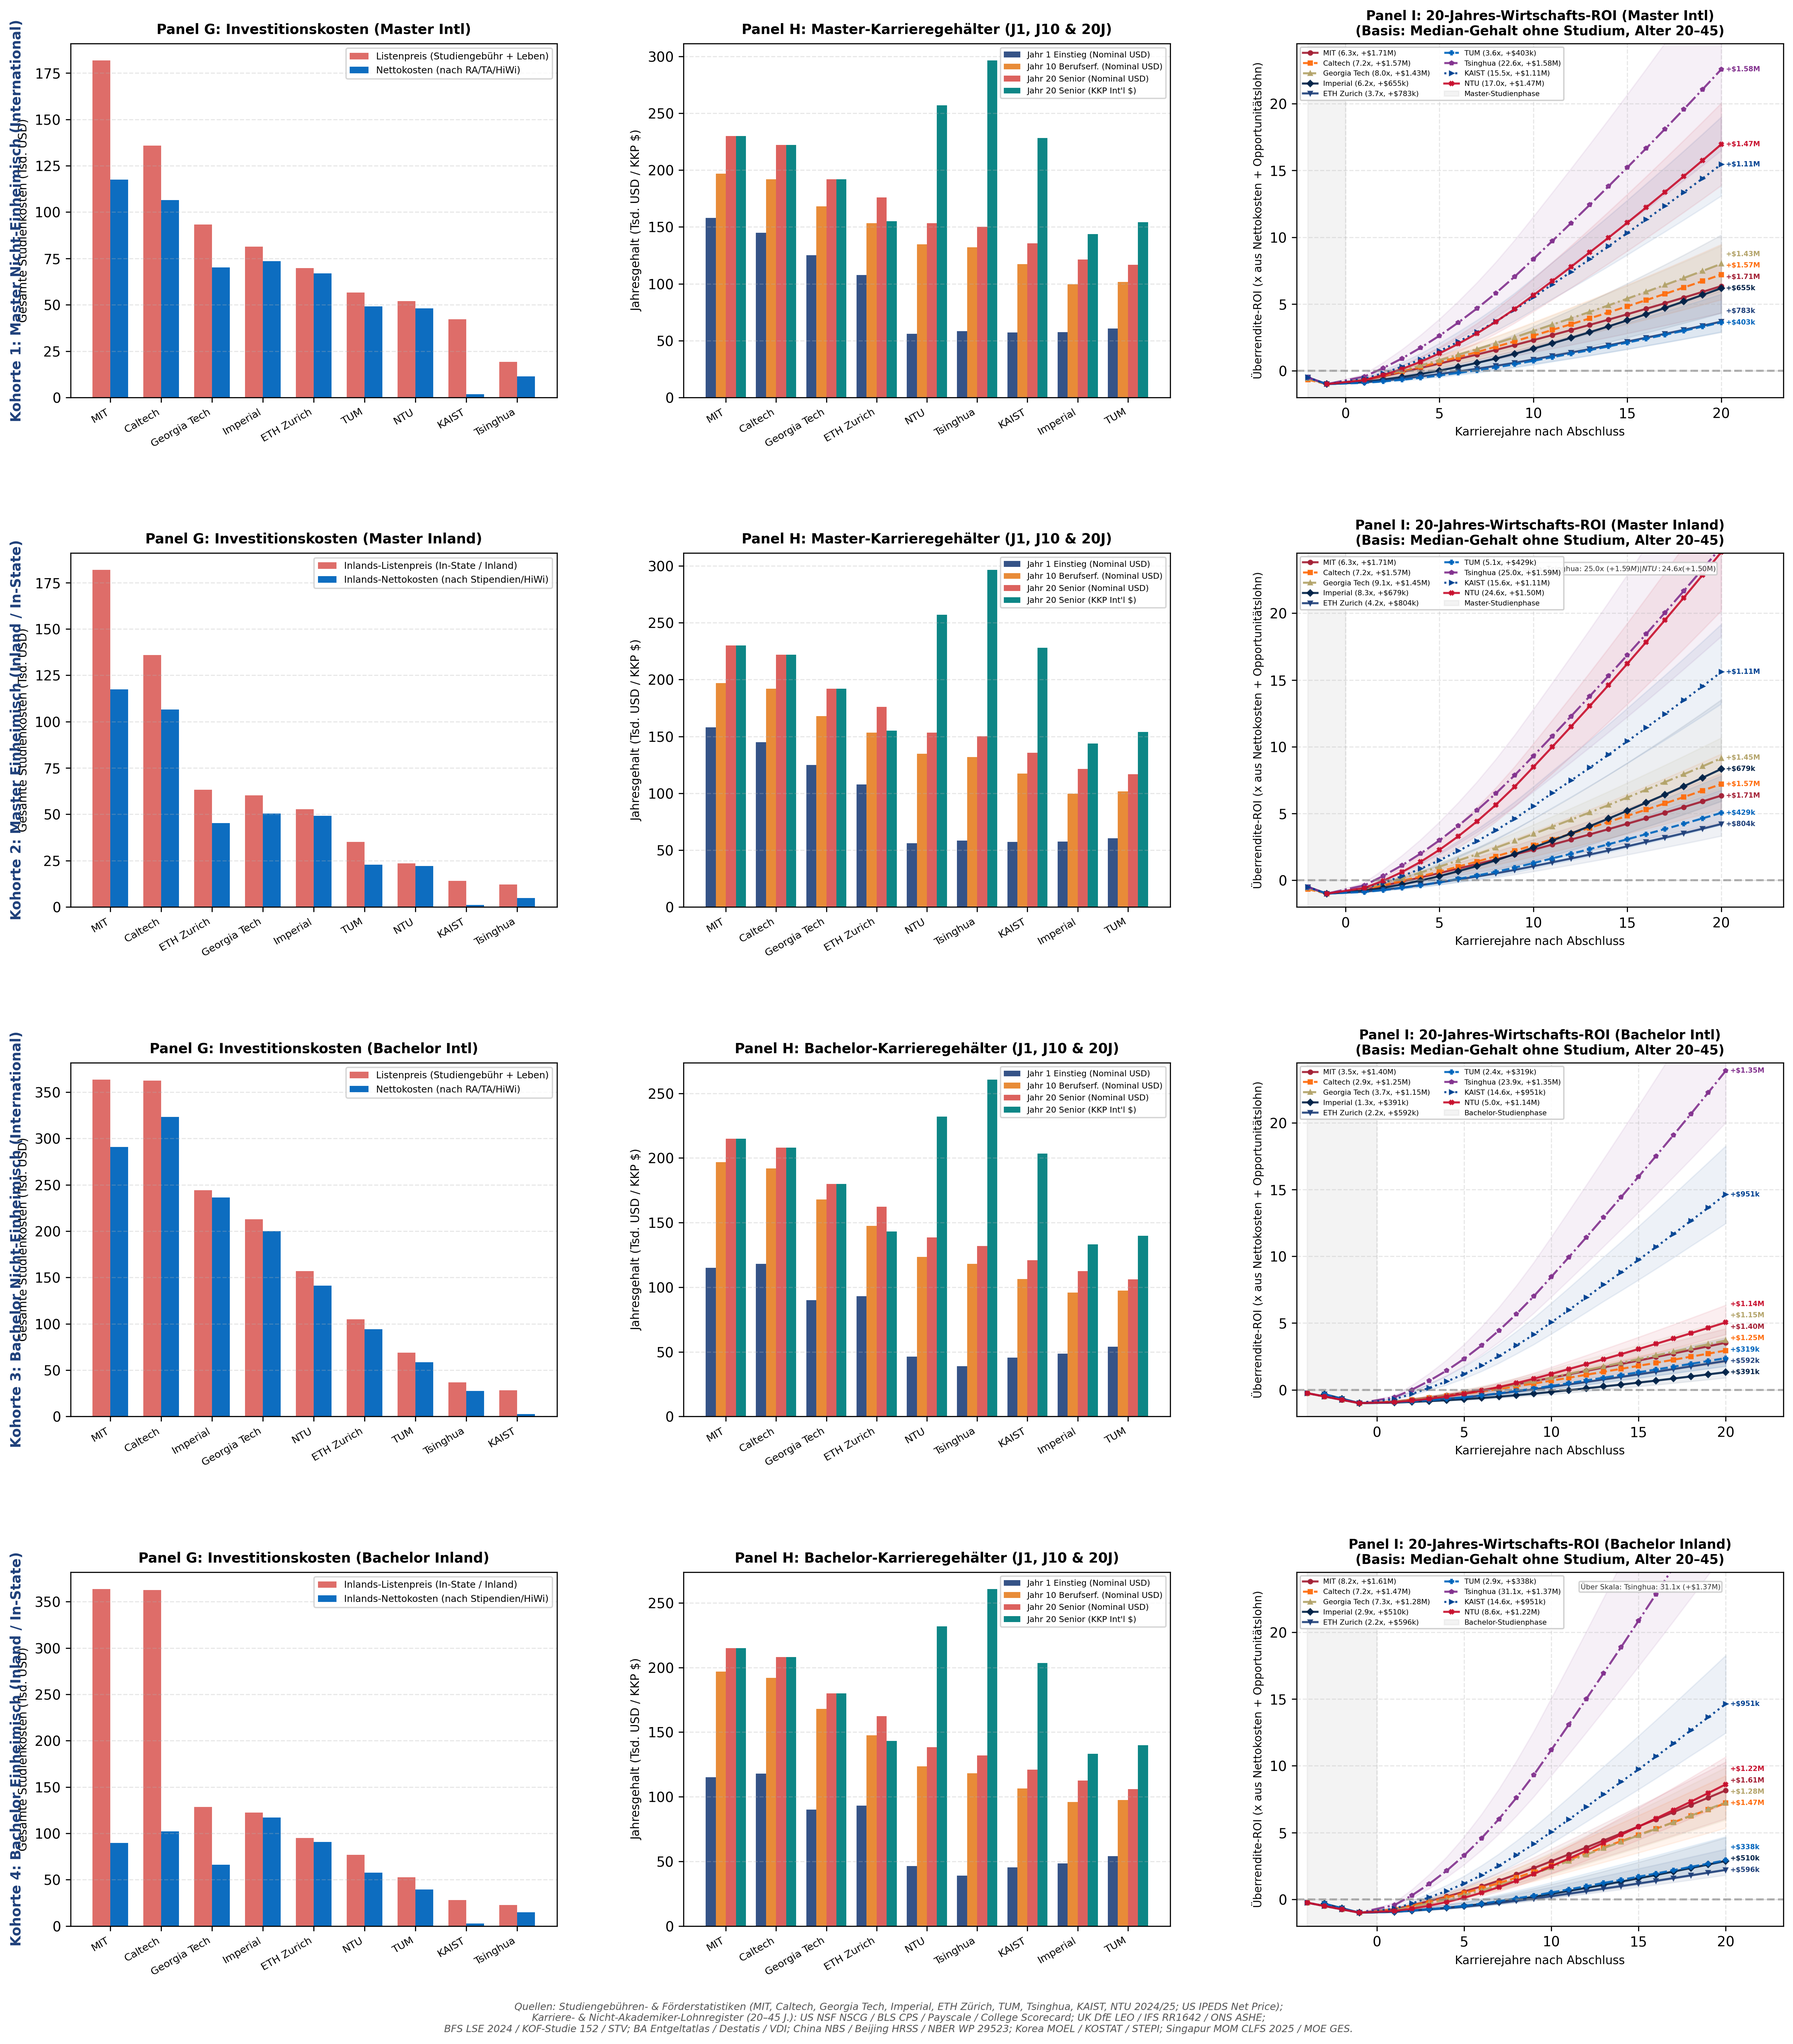
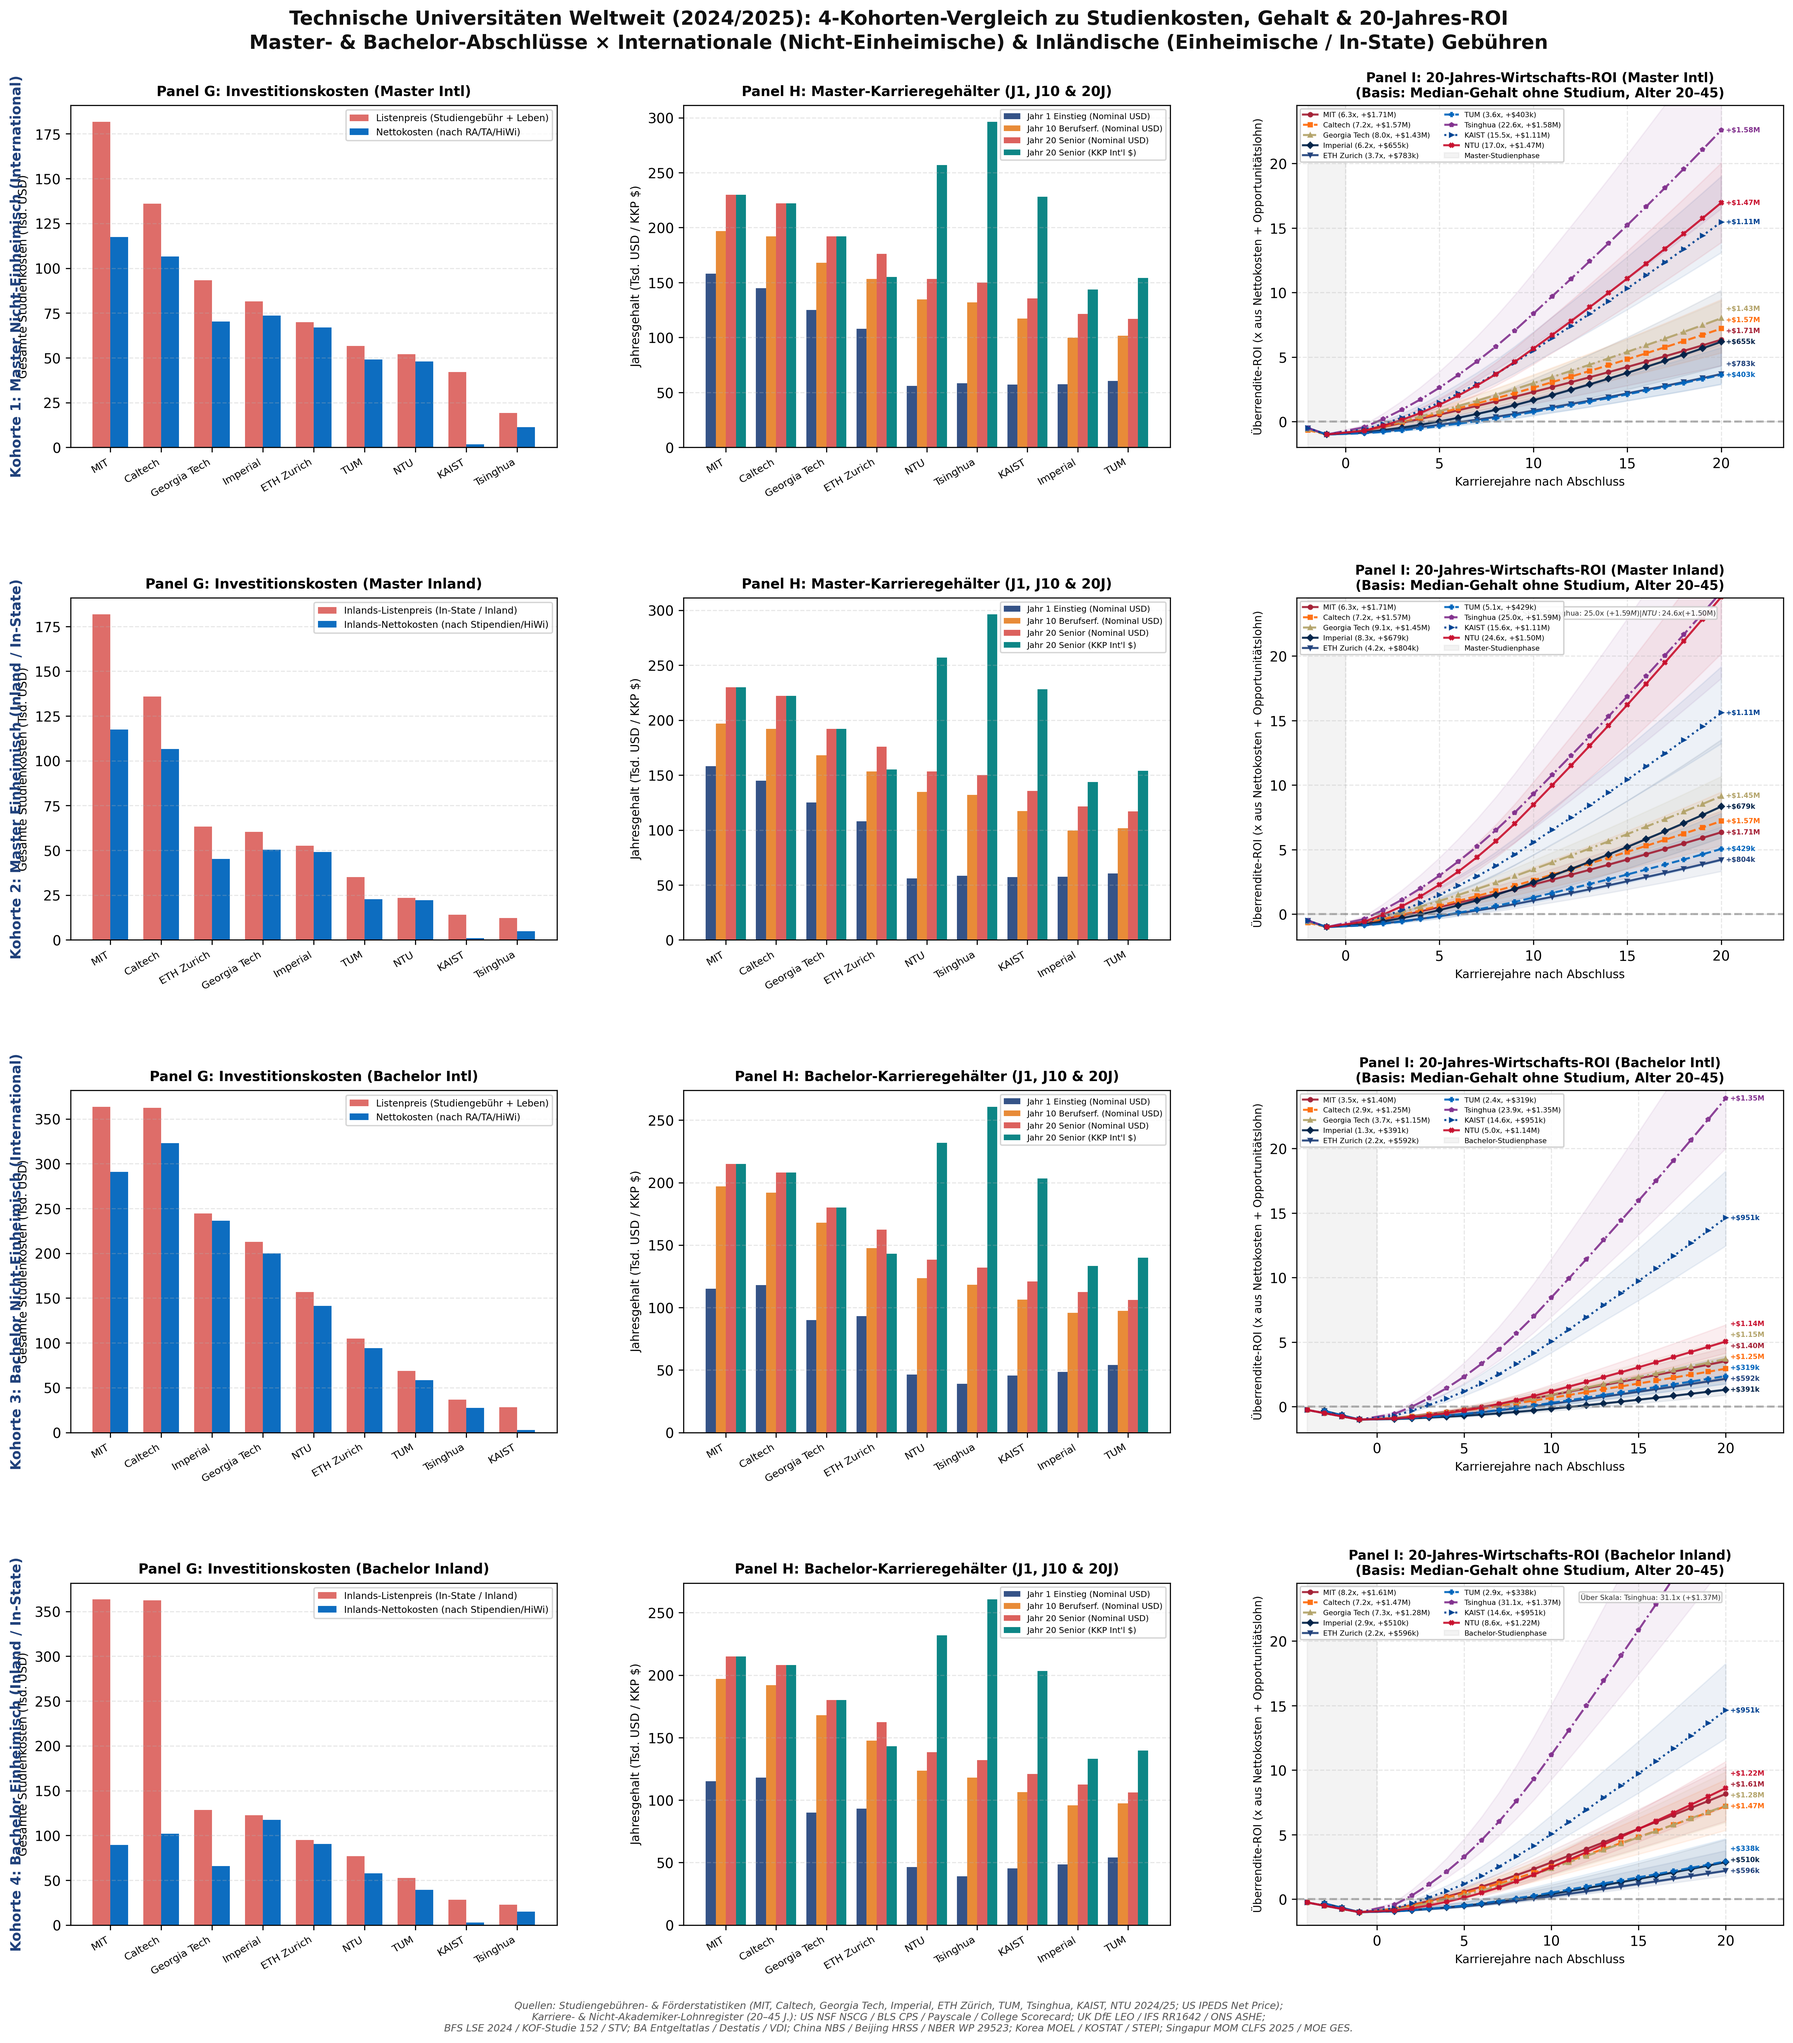
Added title to whole plot

diff --git a/src/modeling.py b/src/modeling.py
@@ -842,7 +842,16 @@ def render_historical_trajectories(ax, data, lang="en", is_standalone=False):
 def generate_bottom_row_4_variants_comparison(data, lang="en"):
     """Generate 4-row comparative composite of Panels G, H, I across Master & Bachelor x Native & Non-Native."""
     fig, axes = plt.subplots(4, 3, figsize=(19, 21), dpi=300)
-    fig.subplots_adjust(top=0.96, bottom=0.055, left=0.06, right=0.97, hspace=0.44, wspace=0.26)
+    fig.subplots_adjust(top=0.93, bottom=0.055, left=0.06, right=0.97, hspace=0.44, wspace=0.26)
+
+    suptitle_bot = (
+        "Global Technical Universities (2024/2025): 4-Cohort Degree Cost, Career Salary & 20-Year ROI Comparison\n"
+        "Master's & Bachelor's Degrees × International (Non-Native) & Domestic (In-State / Native) Tuition Regimes"
+    ) if lang == "en" else (
+        "Technische Universitäten Weltweit (2024/2025): 4-Kohorten-Vergleich zu Studienkosten, Gehalt & 20-Jahres-ROI\n"
+        "Master- & Bachelor-Abschlüsse × Internationale (Nicht-Einheimische) & Inländische (Einheimische / In-State) Gebühren"
+    )
+    fig.suptitle(suptitle_bot, y=0.976, fontsize=14, fontweight="bold", color="#111111", linespacing=1.35)
 
     # Variant 1: Master's Degree – International (Non-Native)
     render_panel_g(axes[0, 0], data, lang=lang, is_standalone=False, degree_level="Master", tuition_mode="intl")
@@ -914,7 +923,7 @@ def generate_composite_3x3_matrix(data, lang="en", edition="v1"):
     t_mode = "intl" if edition in ["v1", "v3"] else "local"
 
     fig, axes = plt.subplots(3, 3, figsize=(19, 16.5), dpi=300)
-    fig.subplots_adjust(top=0.94, bottom=0.06, left=0.06, right=0.97, hspace=0.46, wspace=0.28)
+    fig.subplots_adjust(top=0.915, bottom=0.06, left=0.06, right=0.97, hspace=0.46, wspace=0.28)
 
     render_panel_a(axes[0, 0], data, lang=lang, is_standalone=False)
     render_panel_b(axes[0, 1], data, lang=lang, is_standalone=False)
@@ -941,6 +950,15 @@ def generate_composite_3x3_matrix(data, lang="en", edition="v1"):
         "v3": "v3 Bachelor International (Nicht-Einheimisch)",
         "v4": "v4 Bachelor Inland (Einheimisch / In-State)",
     }[edition]
+
+    suptitle_3x3 = (
+        "Global Technical Universities Benchmark (2024/2025): Budgets, Research Efficiency & 20-Year Career ROI\n"
+        f"MIT • Caltech • Georgia Tech • Imperial • ETH Zurich • TUM • Tsinghua • KAIST • NTU Singapore  [{edition_desc_en}]"
+    ) if lang == "en" else (
+        "Globaler Vergleich Technischer Universitäten (2024/2025): Budgets, Forschungseffizienz & 20-Jahres-Karriere-ROI\n"
+        f"MIT • Caltech • Georgia Tech • Imperial • ETH Zürich • TUM • Tsinghua • KAIST • NTU Singapur  [{edition_desc_de}]"
+    )
+    fig.suptitle(suptitle_3x3, y=0.972, fontsize=14, fontweight="bold", color="#111111", linespacing=1.35)
 
     footnote = (
         f"Sources: Audited Financial Statements & Factbooks (MIT, Caltech, Georgia Tech, Imperial, ETH Zurich, TUM, Tsinghua, KAIST, NTU 2024); Partner Institutes (Max Planck, Helmholtz, ESO, LRZ, ETH Domain, Broad, Crick, IBS, A*STAR); "
@@ -978,7 +996,7 @@ def generate_composite_4x3_matrix(data, lang="en", bachelor_mode="intl"):
     b_tuition_mode = "intl" if bachelor_mode == "intl" else "local"
 
     fig, axes = plt.subplots(4, 3, figsize=(19, 21.5), dpi=300)
-    fig.subplots_adjust(top=0.95, bottom=0.055, left=0.06, right=0.97, hspace=0.46, wspace=0.28)
+    fig.subplots_adjust(top=0.93, bottom=0.055, left=0.06, right=0.97, hspace=0.46, wspace=0.28)
 
     # Row 1: Macro Budgets & Denominators
     render_panel_a(axes[0, 0], data, lang=lang, is_standalone=False)
@@ -1002,6 +1020,15 @@ def generate_composite_4x3_matrix(data, lang="en", bachelor_mode="intl"):
 
     b_label = "International" if bachelor_mode == "intl" else "Domestic"
     b_label_de = "International" if bachelor_mode == "intl" else "Inland"
+
+    suptitle_4x3 = (
+        "Global Technical Universities Benchmark (2024/2025): Budgets, Research Efficiency & Dual-Cohort 20-Year Career ROI\n"
+        f"MIT • Caltech • Georgia Tech • Imperial • ETH Zurich • TUM • Tsinghua • KAIST • NTU Singapore  [Bachelor ({b_label}) & Master Domestic]"
+    ) if lang == "en" else (
+        "Globaler Vergleich Technischer Universitäten (2024/2025): Budgets, Forschungseffizienz & 20-Jahres-Karriere-ROI\n"
+        f"MIT • Caltech • Georgia Tech • Imperial • ETH Zürich • TUM • Tsinghua • KAIST • NTU Singapur  [Bachelor ({b_label_de}) & Master Inland]"
+    )
+    fig.suptitle(suptitle_4x3, y=0.976, fontsize=14, fontweight="bold", color="#111111", linespacing=1.35)
 
     footnote = (
         f"Sources: Audited Financial Statements & Factbooks (MIT, Caltech, Georgia Tech, Imperial, ETH Zurich, TUM, Tsinghua, KAIST, NTU 2024); Partner Institutes (Max Planck, Helmholtz, ESO, LRZ, ETH Domain, Broad, Crick, IBS, A*STAR); "
